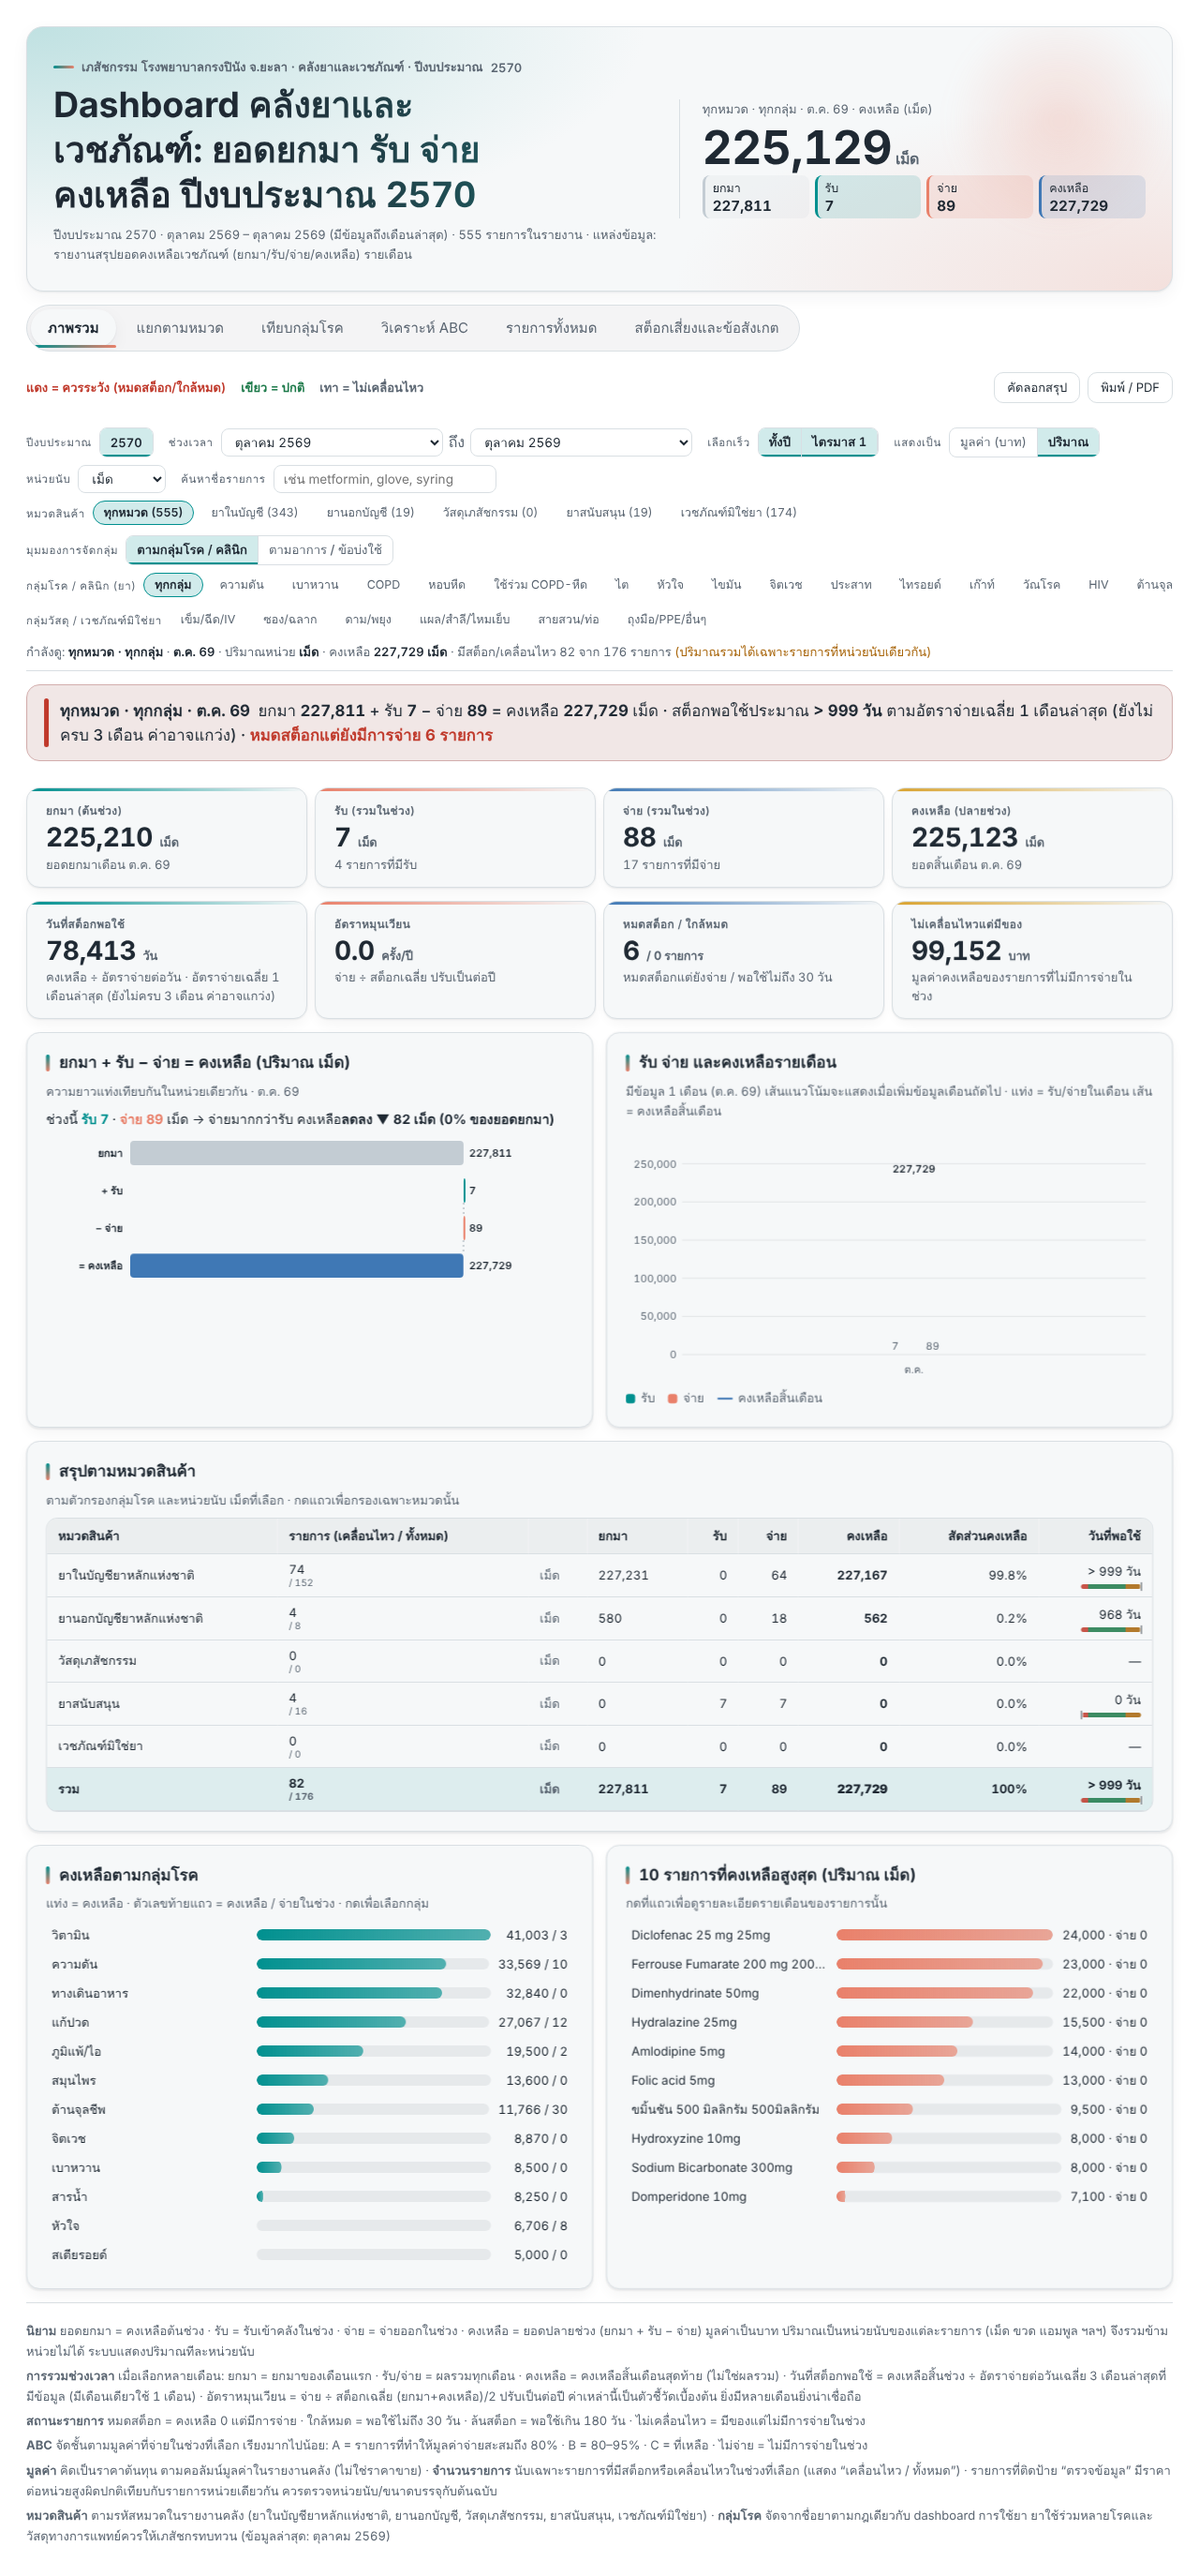
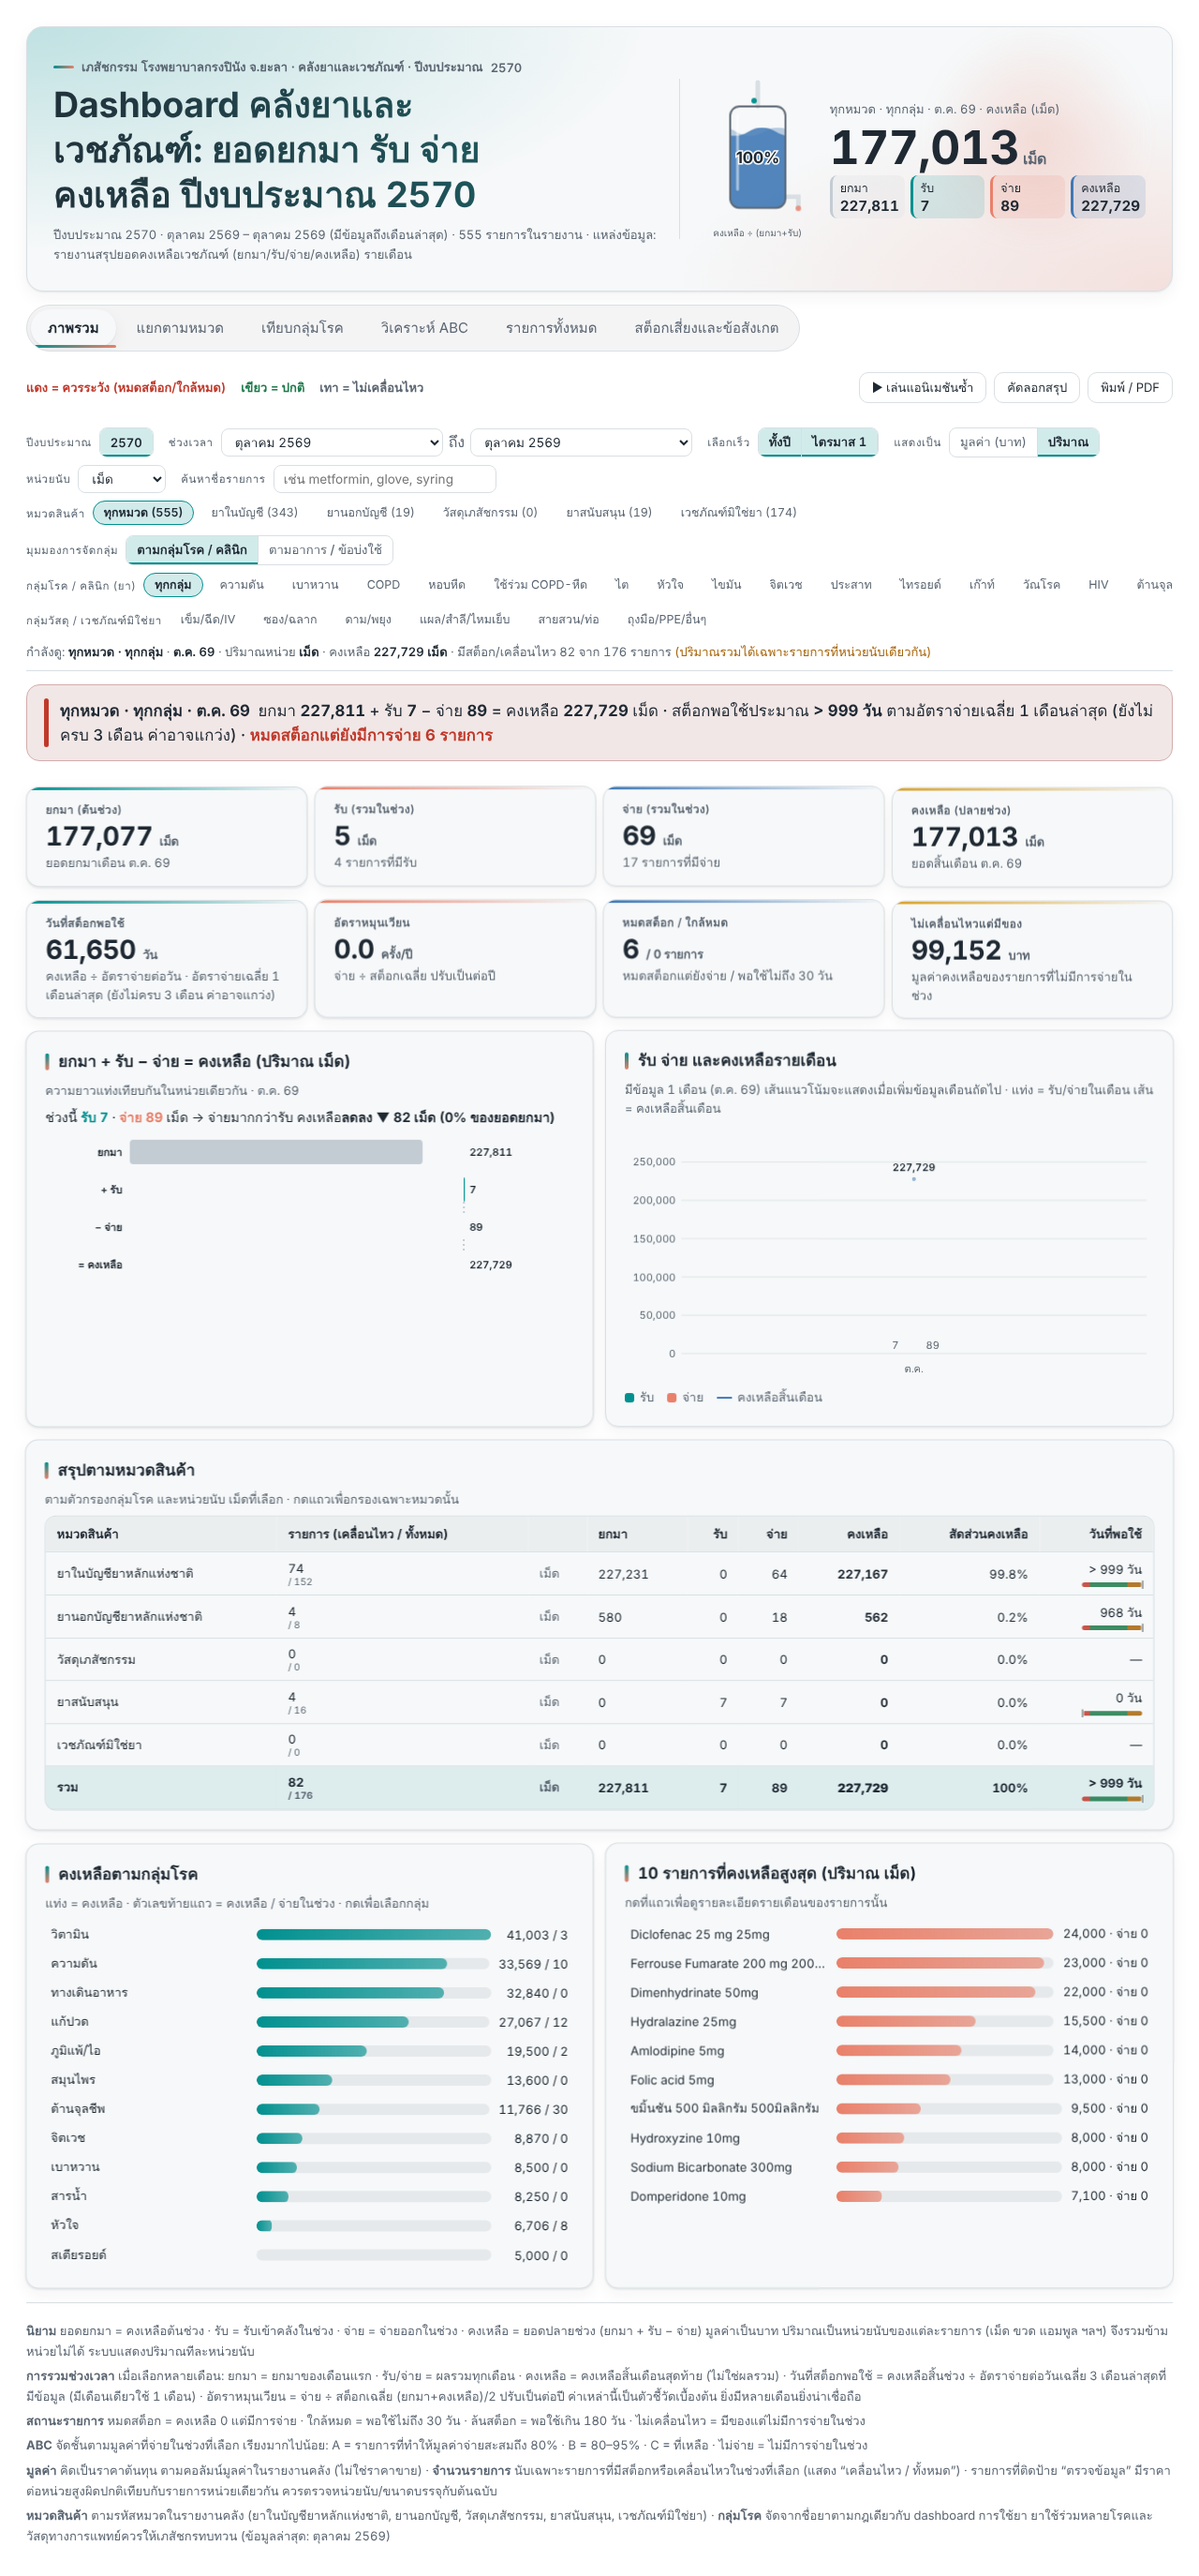
Showpiece animation: stock tank, spring entrance, sweeps, replay button
Claude-Session: https://claude.ai/code/session_01LKDfbrATvXmuWWax7pBVTb

diff --git a/app.js b/app.js
@@ -120,7 +120,7 @@ function countUps(){
     let from=PREVK[key];PREVK[key]=to;
     if(!animNow||reduced())return;
     if(animNow==='tab'||from==null)from=0;
-    tween(el,from,to,fmt,animNow==='tab'?600:400);
+    tween(el,from,to,fmt,animNow==='tab'?1400:500);
   });
 }
 function headline(host,tone,html){host.className='hp-headline '+tone;host.innerHTML='<i></i><div>'+html+'</div>';}
@@ -178,9 +178,25 @@ function syncControls(){
   ['overview','cats','groups','abc','items','alerts'].forEach(t=>{$('#hp-'+t).hidden=S.tab!==t;});
   heroRender(rows,a);
 }
+function tankHtml(a){
+  const tot=a.o+a.r,lvl=tot>0?Math.max(.04,Math.min(1,a.b/tot)):0,pc=Math.round(lvl*100);
+  const ni=a.r>0&&tot>0?Math.max(1,Math.min(6,Math.round(a.r/tot*8))):0,no=a.d>0&&tot>0?Math.max(1,Math.min(6,Math.round(a.d/tot*8))):0;
+  let dr='';for(let i=0;i<ni;i++)dr+='<circle class="hp-dr" cx="'+(56+(i%3)*4)+'" cy="12" r="3" style="--dl:'+(i*.28).toFixed(2)+'s;fill:'+fcol('r')+'"/>';
+  let dd='';for(let i=0;i<no;i++)dd+='<circle class="hp-do" cx="'+(104+(i%2)*3)+'" cy="136" r="3" style="--dl:'+(i*.3).toFixed(2)+'s;fill:'+fcol('d')+'"/>';
+  const W='M-30 8 q15 -9 30 0 t30 0 t30 0 t30 0 t30 0 t30 0 t30 0 t30 0 V140 H-30Z';
+  return '<div class="hp-tank" role="img" aria-label="ถังสต็อก คงเหลือ '+pc+'% ของที่มีในช่วง (ยกมา+รับ)"><svg viewBox="0 0 120 160"><defs><clipPath id="hpTc"><rect x="30" y="30" width="60" height="110" rx="10"/></clipPath></defs>'+
+    '<path d="M60 4 V30" stroke="var(--color-border-line)" stroke-width="5" fill="none" stroke-linecap="round"/>'+
+    '<path d="M90 128 H104 V140" stroke="var(--color-border-line)" stroke-width="5" fill="none" stroke-linecap="round"/>'+
+    '<g clip-path="url(#hpTc)"><g class="hp-liq" style="--lvl:'+(animNow&&!reduced()?0:lvl)+'" data-lvl="'+lvl+'"><g transform="translate(30 30)"><path class="hp-w2" d="'+W+'" style="fill:'+fcol('b')+';opacity:.35"/><path class="hp-w1" d="'+W+'" style="fill:'+fcol('b')+';opacity:.85"/></g>'+
+    '<circle class="hp-bub" cx="46" cy="130" r="2.2" style="--dl:0s"/><circle class="hp-bub" cx="62" cy="132" r="1.6" style="--dl:1.1s"/><circle class="hp-bub" cx="76" cy="128" r="2" style="--dl:2s"/></g></g>'+
+    '<rect x="30" y="30" width="60" height="110" rx="10" fill="none" stroke="var(--color-fg-muted)" stroke-width="2"/><path d="M38 40 V120" stroke="#fff" stroke-opacity=".5" stroke-width="3" stroke-linecap="round"/>'+
+    dr+dd+'<text x="60" y="92" text-anchor="middle" class="hp-tpc">'+pc+'%</text></svg><span class="hp-tcap">คงเหลือ ÷ (ยกมา+รับ)</span></div>';
+}
+function liqGo(){requestAnimationFrame(()=>requestAnimationFrame(()=>{$$('#hp .hp-liq').forEach(g=>g.style.setProperty('--lvl',g.dataset.lvl));}));}
+function critMark(){$$('#hp .hp-kpi.crit').forEach(k=>k.classList.remove('crit'));$$('#hp .hp-kpi').forEach(k=>{const l=k.querySelector('.l'),n=k.querySelector('.n');if(l&&n&&/^หมดสต็อก/.test(l.textContent)&&parseFloat(n.textContent.replace(/,/g,''))>0)k.classList.add('crit');});}
 function heroRender(rows,a){
   const w=Math.min(420,Math.max(220,($('#hp-hero-n').clientWidth||320)));
-  $('#hp-hero-n').innerHTML='<span class="l">'+esc(scopeName())+' · '+esc(rangeLabel())+' · คงเหลือ'+(S.m==='q'?' ('+esc(S.unit)+')':'')+'</span><span class="n">'+cnt('hero',a.b,S.m==='v'?'b':'n')+'<small>'+unitTxt()+'</small></span>'+flowStrip(a);
+  $('#hp-hero-n').innerHTML=tankHtml(a)+'<div class="hp-hn-t"><span class="l">'+esc(scopeName())+' · '+esc(rangeLabel())+' · คงเหลือ'+(S.m==='q'?' ('+esc(S.unit)+')':'')+'</span><span class="n">'+cnt('hero',a.b,S.m==='v'?'b':'n')+'<small>'+unitTxt()+'</small></span>'+flowStrip(a)+'</div>';
 }
 
 /* ---------- charts ---------- */
@@ -540,9 +556,10 @@ document.addEventListener('click',e=>{
   else if(a==='close'){S.detail=null;}
   else if(a==='sort'){const k=el.dataset.k;S.sort=S.sort.k===k?{k:k,d:-S.sort.d}:{k:k,d:(k==='label'||k==='pcat'||k==='cat'||k==='unit'||k==='st')?1:-1};}
   else if(a==='more'){S.limit+=120;}
+  else if(a==='replay'){}
   else if(a==='abcf'){ABCF=el.dataset.k;S.tab='abc';}
   else if(a==='togactive'){S.active=!S.active;}
-  anim=(a==='tab'||a==='fy')?'tab':'data';go();
+  anim=(a==='tab'||a==='fy'||a==='replay')?'tab':'data';go();
 });
 document.addEventListener('change',e=>{
   if(e.target.id==='hp-from'){S.from=+e.target.value;if(S.to<S.from)S.to=S.from;anim='data';go();}
@@ -589,11 +606,11 @@ function render(){
   else if(S.tab==='abc')renderAbc();
   else if(S.tab==='items')renderItems();
   else if(S.tab==='alerts')renderAlerts();
-  countUps();tabInd();
+  countUps();liqGo();critMark();tabInd();
 }
 function redraw(){go();
   if(S.tab==='overview')renderOverview();else if(S.tab==='cats')renderCats();else if(S.tab==='groups')renderGroups();else if(S.tab==='abc')renderAbc();else if(S.tab==='items')renderItems();else if(S.tab==='alerts')renderAlerts();
-  countUps();tabInd();}
+  countUps();liqGo();critMark();tabInd();}
 let lastW=window.innerWidth,rzT=null;
 window.addEventListener('resize',()=>{tabInd();clearTimeout(rzT);rzT=setTimeout(()=>{if(!ready||window.innerWidth===lastW)return;lastW=window.innerWidth;anim=null;redraw();},180);});
 window.addEventListener('orientationchange',()=>{setTimeout(()=>{lastW=-1;window.dispatchEvent(new Event('resize'));},250);});

diff --git a/index.html b/index.html
@@ -413,6 +413,46 @@
 }
 @media(hover:none){.hp-kpi:hover,.hp-gc:hover,.pr-c:hover{border-color:inherit}}
 .hp{padding-left:max(0px,env(safe-area-inset-left));padding-right:max(0px,env(safe-area-inset-right));padding-bottom:max(0px,env(safe-area-inset-bottom))}
+
+/* ---- showpiece animation (all gated by no-preference) ---- */
+.hp-hn{flex-direction:row;align-items:center;gap:clamp(8px,2vw,18px);flex-wrap:nowrap}
+.hp-hn-t{display:flex;flex-direction:column;gap:4px;min-width:0;flex:1}
+.hp-tank{flex:none;width:clamp(84px,11vw,118px);display:flex;flex-direction:column;align-items:center;gap:2px}
+.hp-tank svg{width:100%;height:auto;overflow:visible}
+.hp-tcap{font-size:.62rem;color:var(--color-fg-muted);text-align:center;line-height:1.2}
+.hp-tpc{font:700 17px var(--hp-font);fill:var(--color-fg);paint-order:stroke;stroke:var(--color-panel);stroke-width:3px}
+.hp-liq{transform:translateY(calc((1 - var(--lvl,0)) * 110px))}
+.hp-bub{fill:#fff;opacity:.55}
+.hp-dr,.hp-do{opacity:0}
+@media(max-width:760px){.hp-hn{border-top:1px solid var(--color-border-line)}}
+@media (prefers-reduced-motion:no-preference){
+.hp-liq{transition:transform 1.8s cubic-bezier(.2,.8,.2,1)}
+.hp-w1{animation:hpWave 3.2s linear infinite}.hp-w2{animation:hpWave 5s linear infinite reverse}
+.hp-bub{animation:hpBub 3.4s ease-in infinite;animation-delay:var(--dl)}
+.hp-dr{animation:hpDrIn 1.5s ease-in infinite;animation-delay:var(--dl)}
+.hp-do{animation:hpDrOut 1.4s ease-in infinite;animation-delay:var(--dl)}
+.hp-hero::before{animation:hpFloat 12s ease-in-out infinite alternate}
+.hp.go .hp-hero h1{background-size:200% 100%;animation:hpShine 1.6s .3s ease-out both}
+.hp.go .hp-kpi,.hp.go .hp-card,.hp.go .hp-gc,.hp.go .hp-al{animation:hpSpring .7s cubic-bezier(.34,1.45,.64,1) both}
+.hp.go .hp-kpi:nth-child(2){animation-delay:.08s}.hp.go .hp-kpi:nth-child(3){animation-delay:.16s}.hp.go .hp-kpi:nth-child(4){animation-delay:.24s}.hp.go .hp-kpi:nth-child(5){animation-delay:.32s}.hp.go .hp-kpi:nth-child(6){animation-delay:.4s}.hp.go .hp-kpi:nth-child(7){animation-delay:.48s}.hp.go .hp-kpi:nth-child(8){animation-delay:.56s}
+.hp.go #ov-wf .hp-bar{transform-origin:0 50%;animation:hpW .7s cubic-bezier(.2,.8,.2,1) both;animation-delay:calc(.3s + var(--i,0)*.16s)}
+.hp-line{filter:drop-shadow(0 0 5px color-mix(in srgb,var(--hp-a) 55%,transparent))}
+.hp-kpi{position:relative;overflow:hidden}
+.hp-kpi::before{content:"";position:absolute;inset:0;background:linear-gradient(110deg,transparent 40%,color-mix(in srgb,#fff 40%,transparent) 50%,transparent 60%);transform:translateX(-120%);pointer-events:none}
+.hp.go .hp-kpi::before{animation:hpSweep 1.1s .5s ease-out 1 both}
+@media(hover:hover){.hp-kpi:hover::before{animation:hpSweep .9s ease-out 1 both}}
+.hp-kpi.crit::after{box-shadow:0 0 0 0 color-mix(in srgb,var(--color-bad) 55%,transparent)}
+.hp-kpi.crit{animation:hpRing 1.6s ease-out 3 1.2s}
+}
+@keyframes hpWave{to{transform:translateX(-60px)}}
+@keyframes hpBub{0%{transform:translateY(0);opacity:0}15%{opacity:.6}100%{transform:translateY(-75px);opacity:0}}
+@keyframes hpDrIn{0%{transform:translateY(0);opacity:0}12%{opacity:1}85%{opacity:.9}100%{transform:translateY(64px);opacity:0}}
+@keyframes hpDrOut{0%{transform:translateY(0);opacity:1}100%{transform:translateY(22px);opacity:0}}
+@keyframes hpShine{from{background-position:100% 0}to{background-position:0 0}}
+@keyframes hpSpring{0%{opacity:0;transform:translateY(26px) scale(.94)}100%{opacity:1;transform:none}}
+@keyframes hpRing{0%{box-shadow:0 0 0 0 color-mix(in srgb,var(--color-bad) 50%,transparent)}100%{box-shadow:0 0 0 16px transparent}}
+@media (prefers-reduced-motion:reduce){.hp-dr,.hp-do{opacity:.9}}
+@media print{.hp-tank{display:none}}
 </style>
 <div id="hp" class="hp">
   <header class="hp-hero">
@@ -432,7 +472,7 @@
     <button role="tab" data-act="tab" data-t="items">รายการทั้งหมด</button>
     <button role="tab" data-act="tab" data-t="alerts">สต็อกเสี่ยงและข้อสังเกต</button>
   </nav>
-  <div class="hp-keybar"><span class="hp-key"><span class="up-bad">แดง = ควรระวัง (หมดสต็อก/ใกล้หมด)</span><span class="dn-ok">เขียว = ปกติ</span><span class="flat">เทา = ไม่เคลื่อนไหว</span></span><span class="hp-keyb"><button class="hp-btn" data-act="copy">คัดลอกสรุป</button><button class="hp-btn" data-act="print">พิมพ์ / PDF</button></span></div>
+  <div class="hp-keybar"><span class="hp-key"><span class="up-bad">แดง = ควรระวัง (หมดสต็อก/ใกล้หมด)</span><span class="dn-ok">เขียว = ปกติ</span><span class="flat">เทา = ไม่เคลื่อนไหว</span></span><span class="hp-keyb"><button class="hp-btn" data-act="replay">▶ เล่นแอนิเมชันซ้ำ</button><button class="hp-btn" data-act="copy">คัดลอกสรุป</button><button class="hp-btn" data-act="print">พิมพ์ / PDF</button></span></div>
   <div class="hp-fbar" id="hp-fbar" hidden></div>
   <button class="hp-btn hp-ftog" id="hp-ftog" aria-expanded="false" aria-controls="hp-filters"><span>ตัวกรอง ▾</span></button>
   <div class="hp-filters" id="hp-filters">

diff --git a/sw.js b/sw.js
@@ -1,4 +1,4 @@
-var V='stock-dash-v5';
+var V='stock-dash-v6';
 var FILES=['./','index.html','app.js','data.js','shim.js','d3.min.js','manifest.webmanifest','icon.svg'];
 self.addEventListener('install',function(e){e.waitUntil(caches.open(V).then(function(c){return c.addAll(FILES);}).then(function(){return self.skipWaiting();}));});
 self.addEventListener('activate',function(e){e.waitUntil(caches.keys().then(function(ks){return Promise.all(ks.filter(function(k){return k!==V;}).map(function(k){return caches.delete(k);}));}).then(function(){return self.clients.claim();}));});
